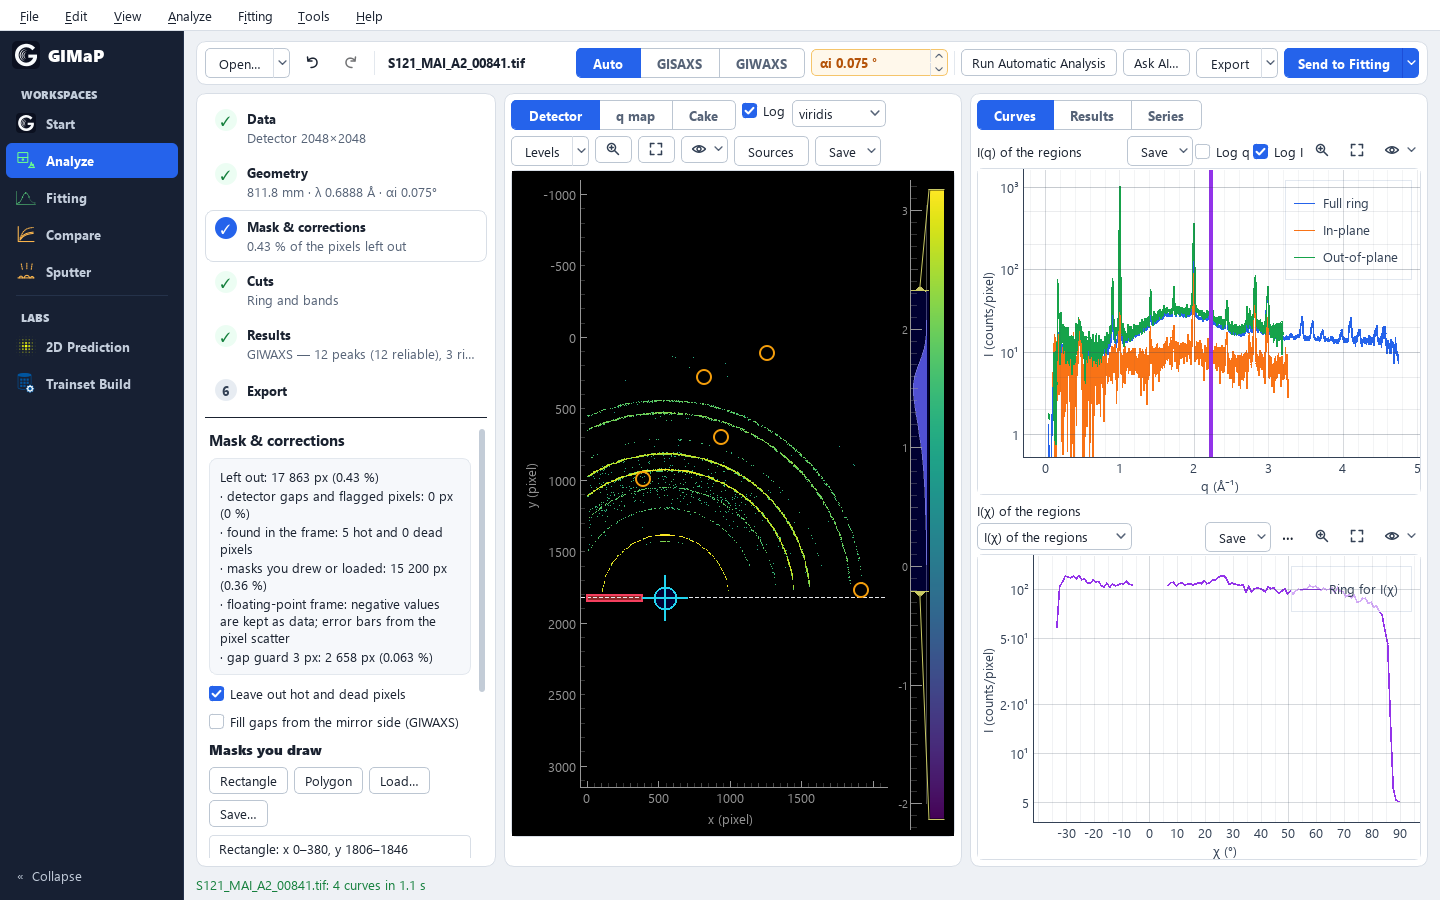
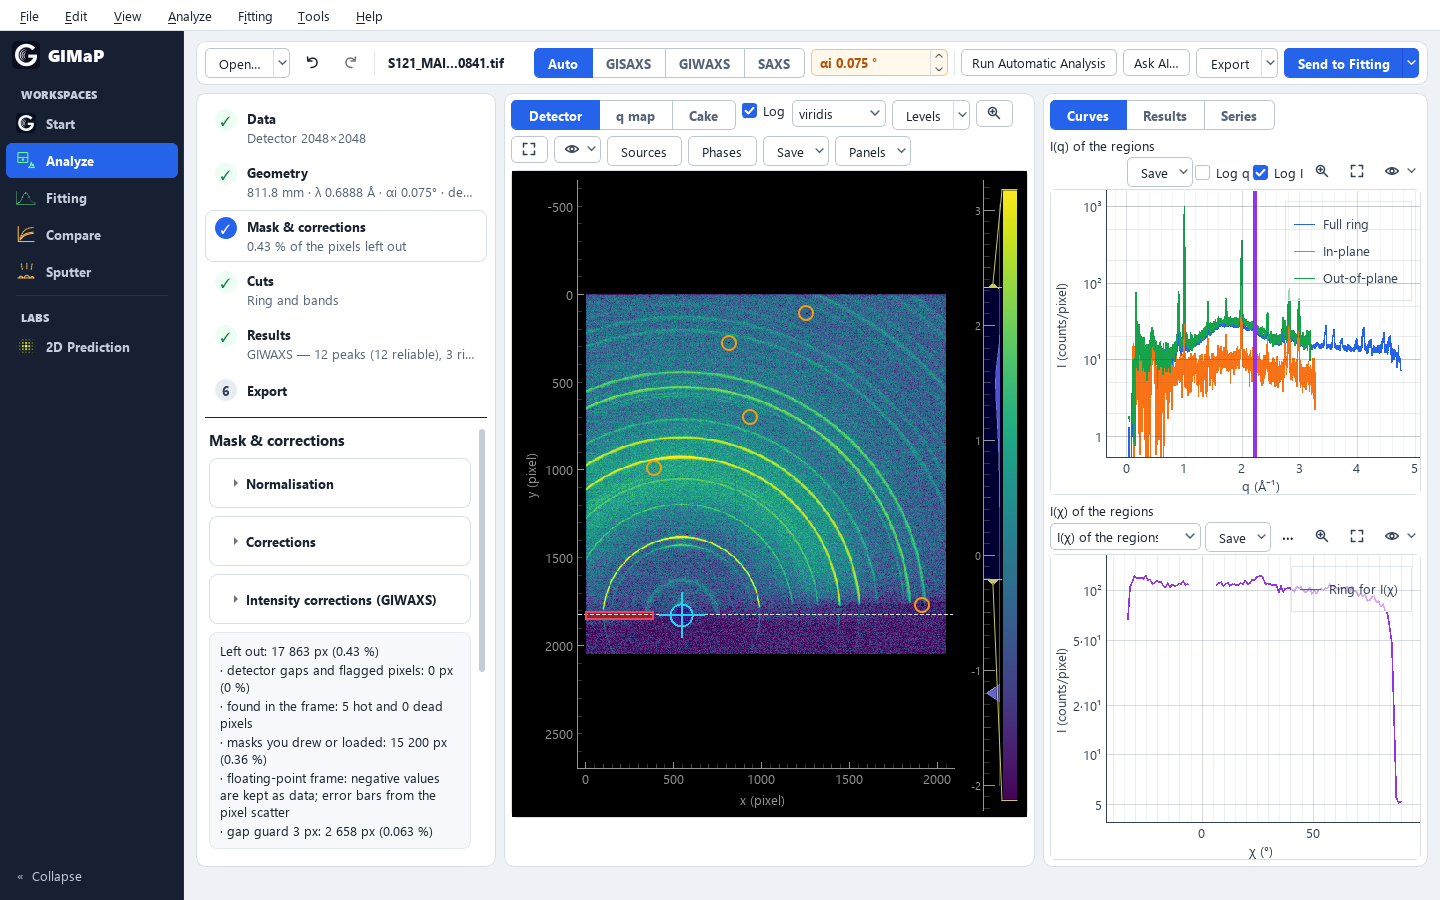
Manual: the Mask & corrections screenshot with the intensity sections at the top (EN, ZH)

diff --git a/docs/User_Manual.md b/docs/User_Manual.md
@@ -1293,7 +1293,7 @@ range, the background, and how many pixels were filled from the mirror side.
 
 ![The Mask & corrections step](manual_images/en/05_mask_step.png)
 
-*The summary at the top counts each kind of pixel left out; on the image, amber circles mark the hot pixels found in this frame and the red rectangle is a drawn mask.*
+*At the top the three closed sections that scale the intensities; the summary under them counts each kind of pixel left out; on the image, amber circles mark the hot pixels found in this frame and the red rectangle is a drawn mask.*
 
 **Show Masked Pixels on the Image** marks them on the detector image: red = left out, amber
 circles = hot or dead pixels, cyan = filled from the mirror side (used in the curves).
